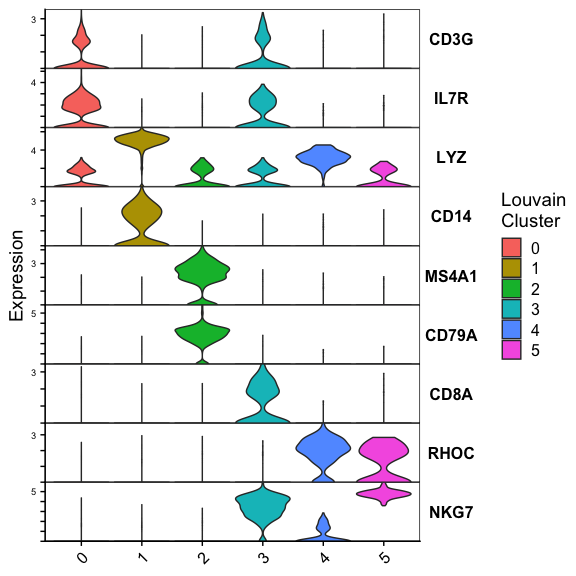
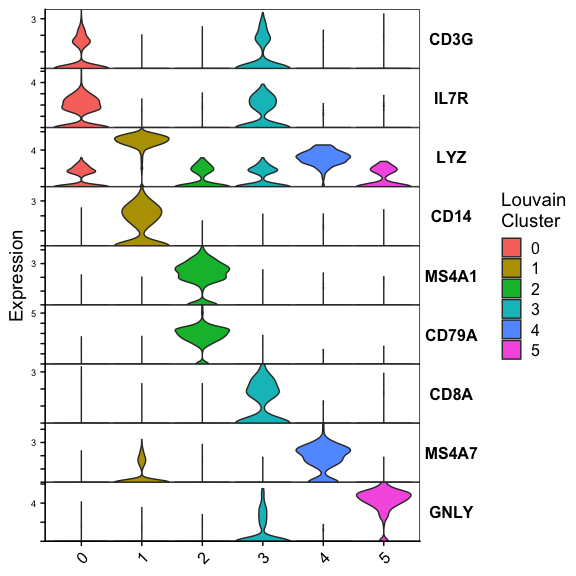
small README changes and faster CosineDist -- closes #20

diff --git a/README.md b/README.md
@@ -106,8 +106,8 @@ markers <- c("CD3G", "IL7R",    # CD4+ T
              "LYZ", "CD14",     # CD14+ monocyte
              "MS4A1", "CD79A",  # B 
              "CD8A",            # CD8+ T
-             "RHOC",            # CD16+ monocyte
-             "NKG7")            # NK
+             "MS4A7",           # CD16+ monocyte
+             "GNLY")            # NK
 VlnPlot(seu_pbmc, 
         features = markers, 
         stack = TRUE, 
